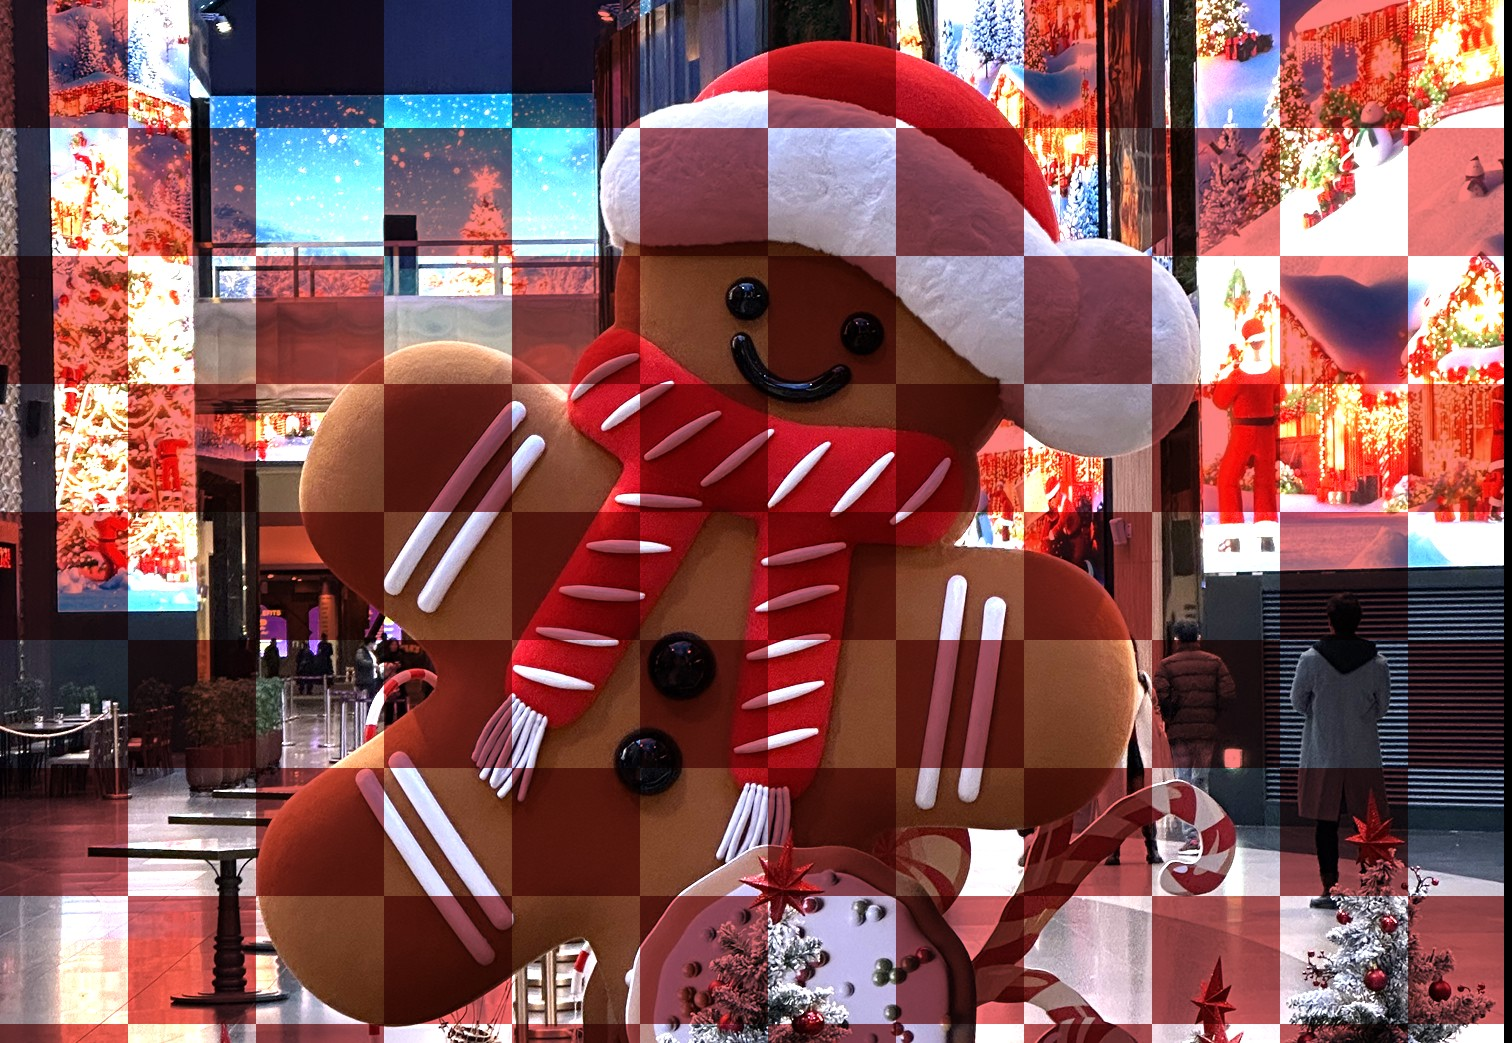
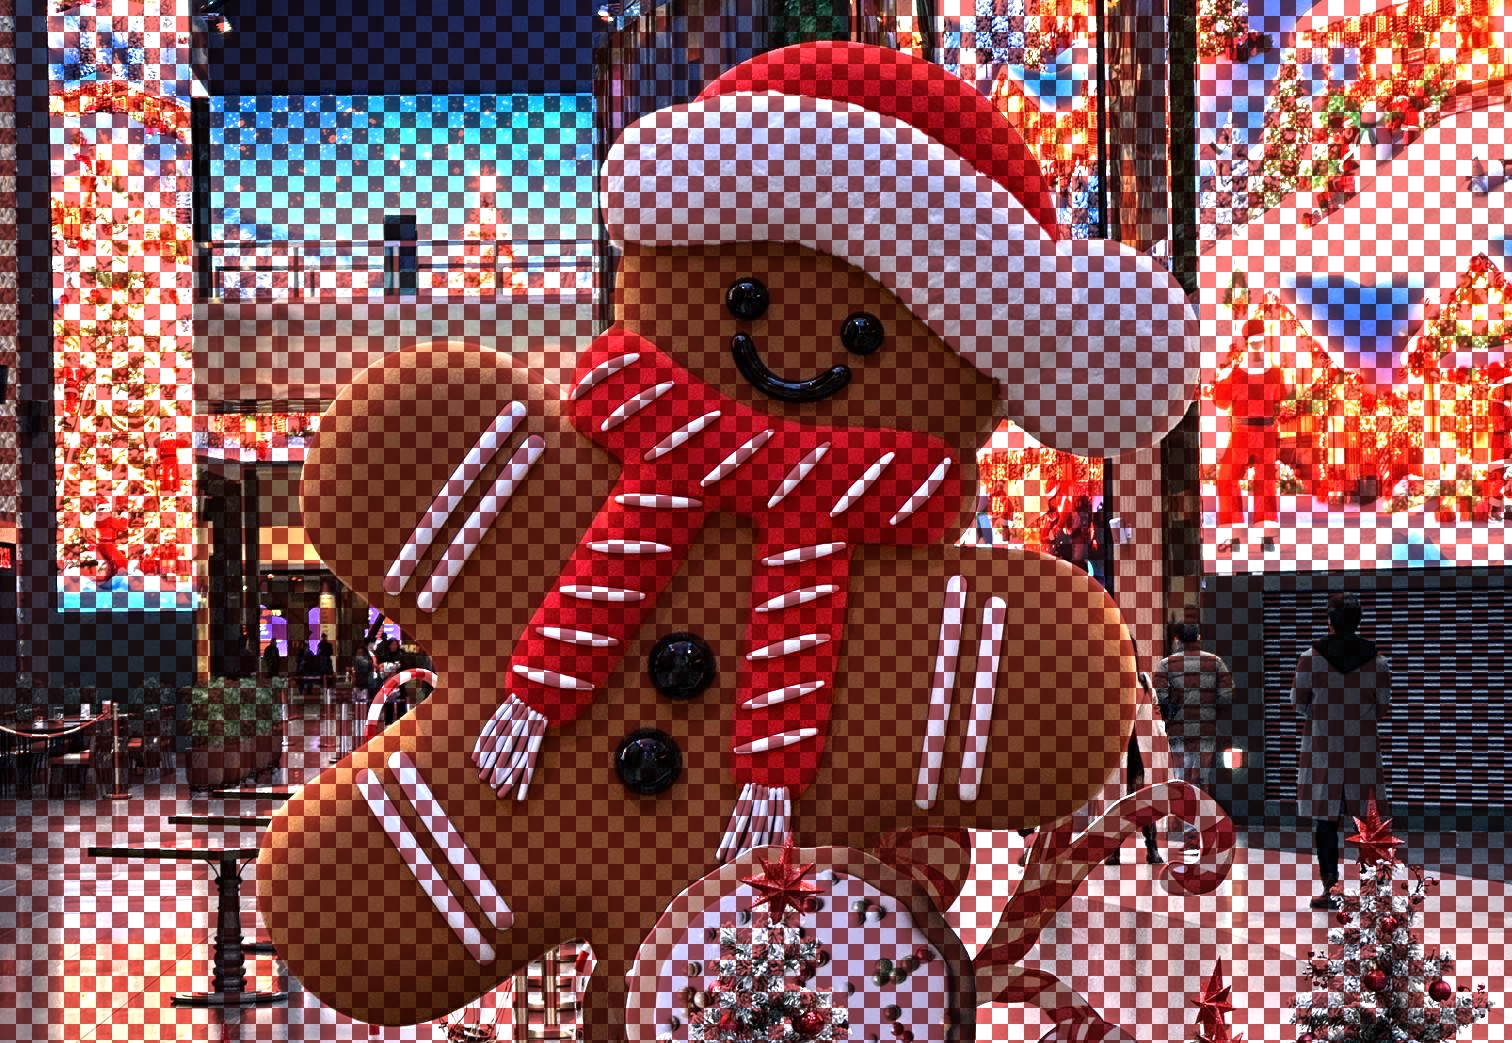
Update

diff --git a/examples/Ex02_Compute/Ex02_Compute.cpp b/examples/Ex02_Compute/Ex02_Compute.cpp
@@ -324,8 +324,8 @@ int main()
     // Dispatch the compute shader
     // Our shader uses local workgroup size of 16x16 (defined in shader)
     // We need to calculate how many workgroups to cover the entire image
-    uint32_t groupCountX = (width + 15) / 32;  // Round up division for X
-    uint32_t groupCountY = (height + 15) / 32; // Round up division for Y
+    uint32_t groupCountX = (width + 15) / 16;  // Round up division for X
+    uint32_t groupCountY = (height + 15) / 16; // Round up division for Y
     vkCmdDispatch(computeCmd.handle(), groupCountX, groupCountY, 1);
 
     // After compute shader writes, transition output image for transfer operations
